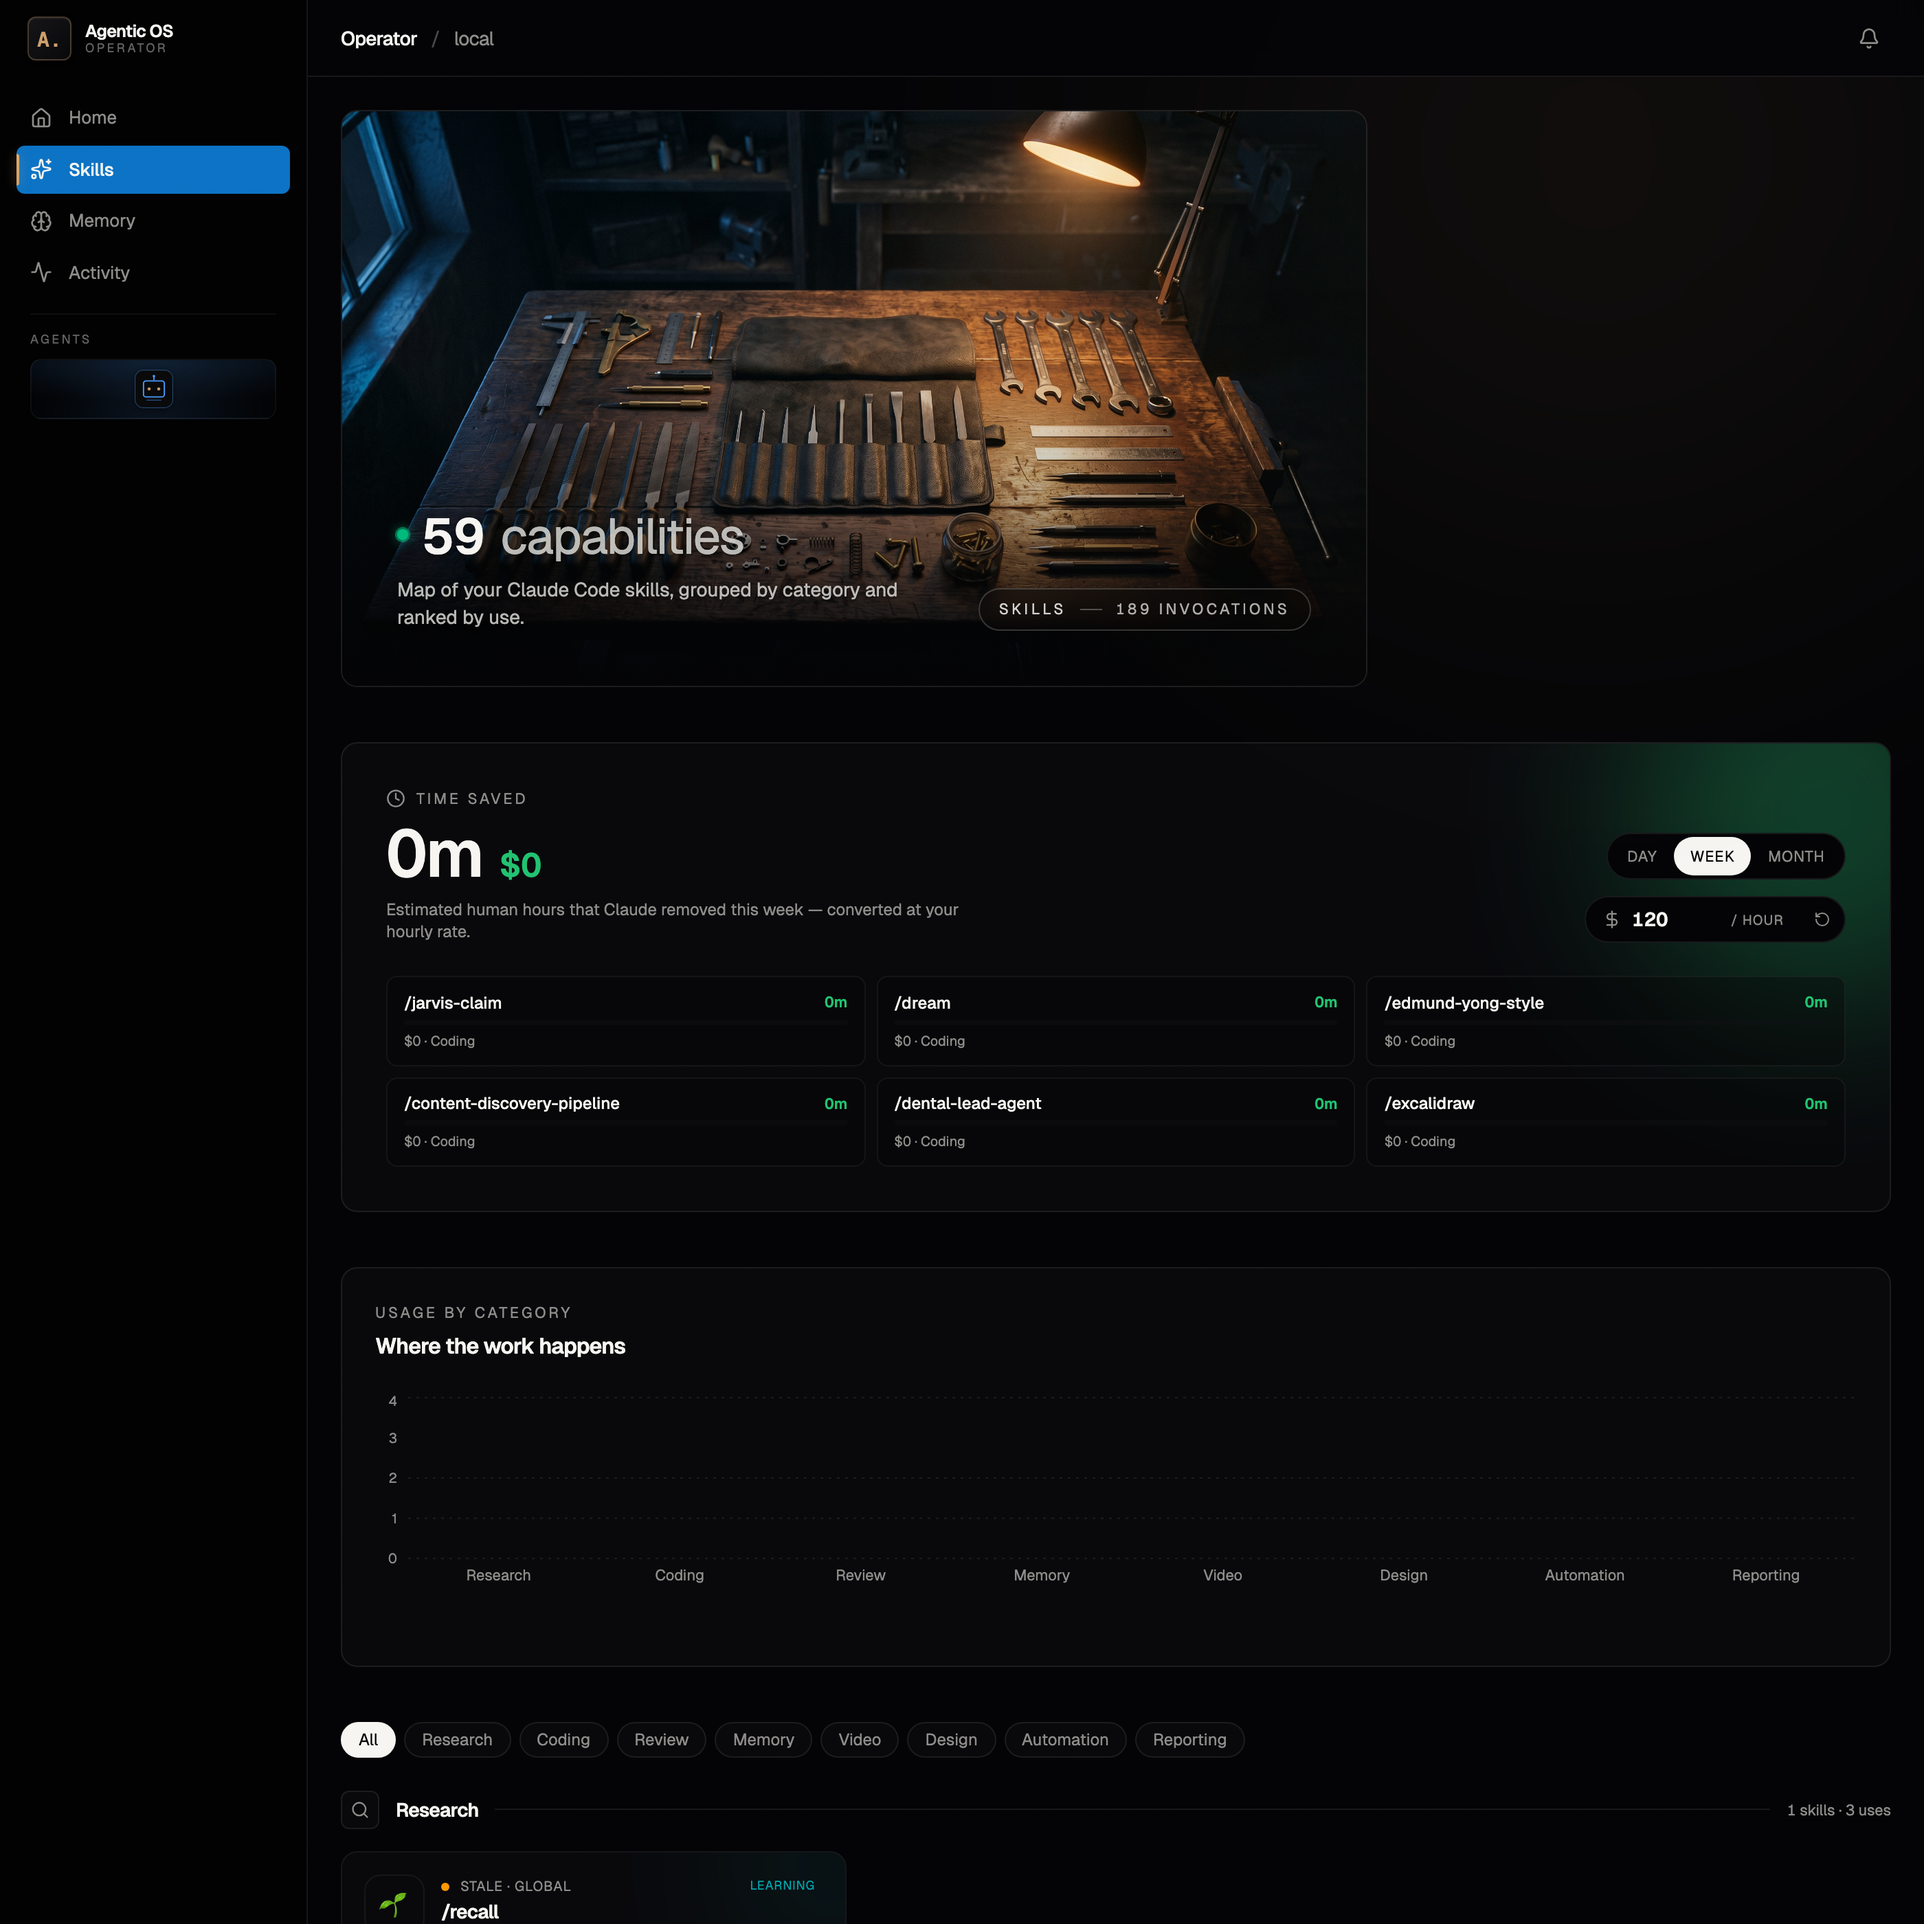
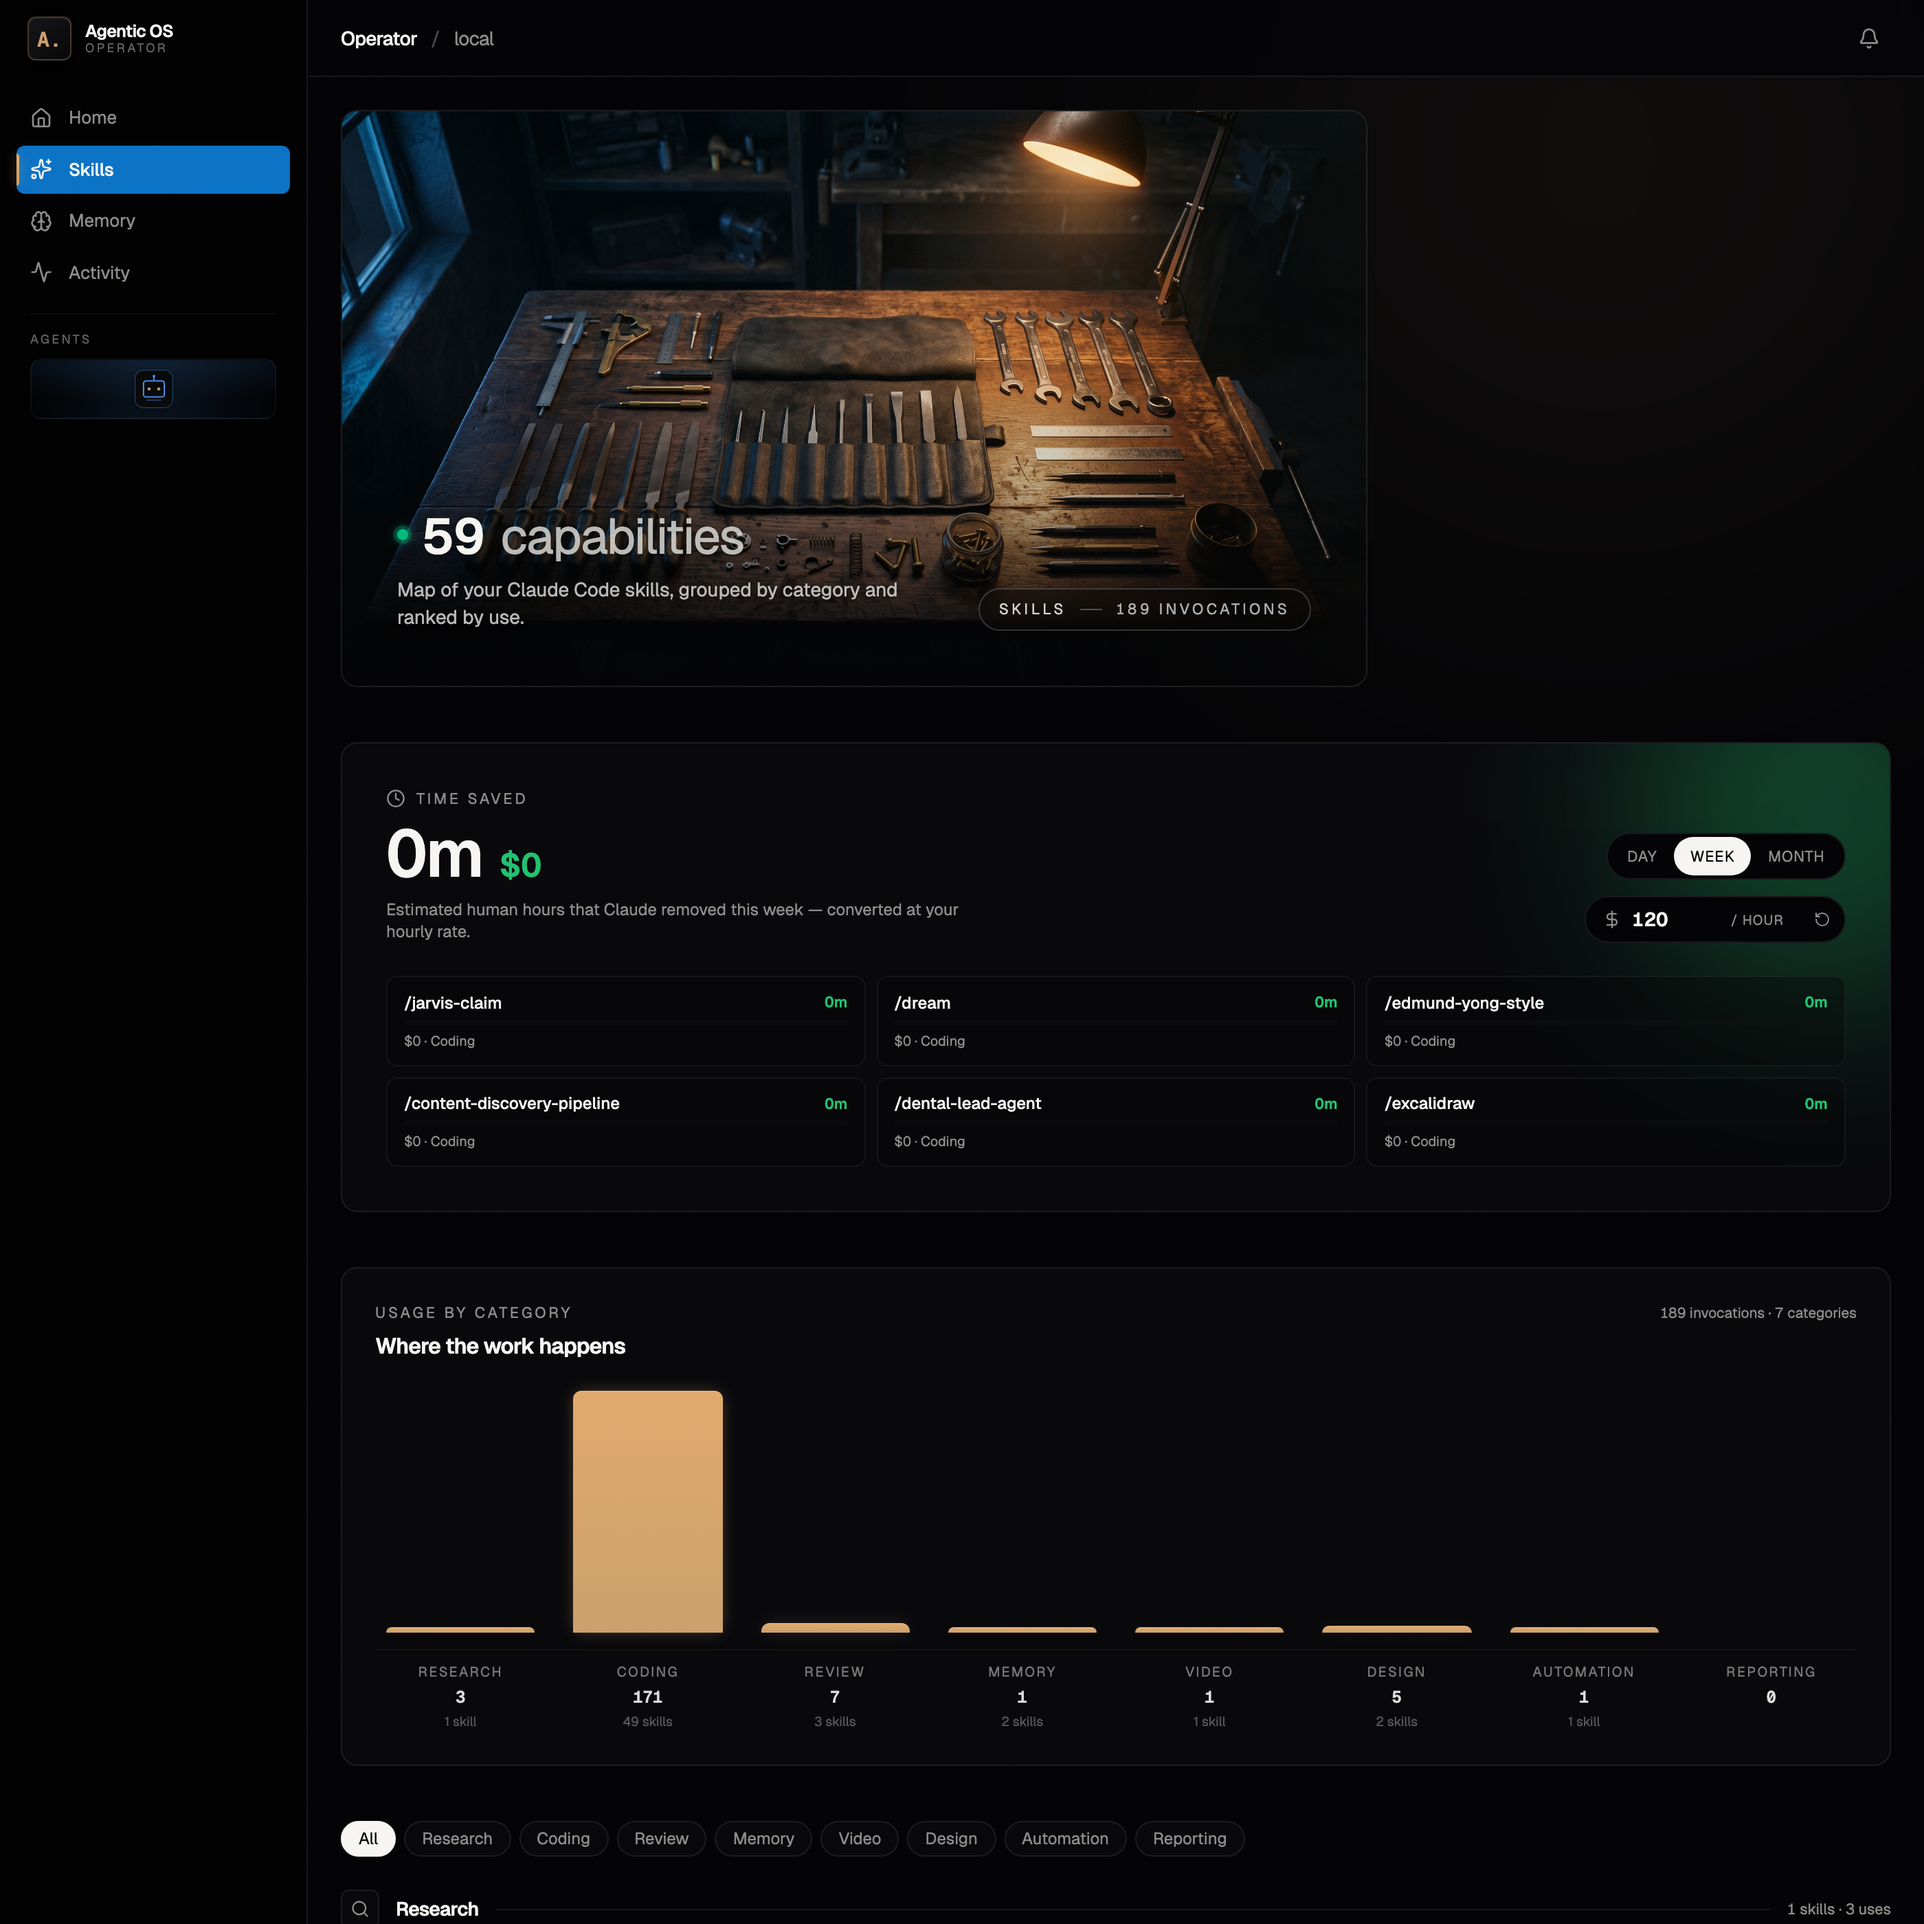
fix(skills): byCategory bars render real data + replace recharts
Two bugs found while auditing the Skills page:

1. byCategory was wrapped in useMemo with an empty dep array, so it
   computed once at module-load time (when the module-level skills
   list was []) and never recomputed when live data arrived. The
   chart was always rendering a tally of zero.

   Fix: remove the useMemo. skills is a module-level let reassigned
   every render; computing byCategory inline picks up the latest
   value and 59 × 8 = 472 array filter operations per render is
   trivial.

2. After the dep fix the data was correct (189 invocations · 7
   categories visible in DOM) but recharts' path-based <Bar> rendered
   zero <path> elements — the SVG group existed but contained no
   shapes. Likely related to ResponsiveContainer measuring its
   parent before the chart had a non-zero size on first paint.

   Fix: replace BarChart entirely with an inline flex bar chart.
   Each category gets a CSS amber-gradient bar scaled to (uses/max
   * 100%), with category label, total uses, and skill count below.
   No library, guaranteed to render, on-brand.

End-to-end the Skills page now shows the operator's real category
mix: Coding 171, Reporting 8, Review 7, Research 3, Memory 1, Video
1, Design 1, Automation 1 (Coding dominates because inferCategory()
defaults anything without a strong keyword match to it).

diff --git a/src/routes/skills.tsx b/src/routes/skills.tsx
@@ -96,6 +96,67 @@ export const Route = createFileRoute("/skills")({
 
 const ACCENT = "oklch(0.72 0.17 155)";
 
+// Inline category bar chart — replaces recharts BarChart because the SVG
+// path-based rendering produced bars with zero height in headless capture
+// modes and on systems where Chrome's compositor was busy. CSS flex bars
+// always render, support our amber theme, and need no library.
+function CategoryBars({
+  data,
+}: {
+  data: { name: string; uses: number; count: number }[];
+}) {
+  const max = Math.max(...data.map((d) => d.uses), 1);
+  return (
+    <div>
+      <div className="flex items-end gap-3 h-44">
+        {data.map((c) => {
+          const pct = (c.uses / max) * 100;
+          const visible = c.uses > 0;
+          return (
+            <div key={c.name} className="flex-1 flex flex-col items-center justify-end h-full">
+              <div className="w-full flex items-end justify-center h-full px-2">
+                <div
+                  className="w-full rounded-t-md transition-[height] duration-500"
+                  style={{
+                    height: visible ? `${Math.max(pct, 2)}%` : "0",
+                    background: visible
+                      ? "linear-gradient(180deg, oklch(0.78 0.10 70) 0%, oklch(0.74 0.085 70) 100%)"
+                      : "transparent",
+                    boxShadow: visible
+                      ? "0 0 12px -2px oklch(0.74 0.085 70 / 40%), inset 0 1px 0 oklch(1 0 0 / 8%)"
+                      : "none",
+                  }}
+                  title={`${c.name}: ${c.uses} invocations · ${c.count} skill${c.count === 1 ? "" : "s"}`}
+                />
+              </div>
+            </div>
+          );
+        })}
+      </div>
+      <div className="flex items-start gap-3 mt-3 pt-2 border-t border-border/40">
+        {data.map((c) => (
+          <div
+            key={c.name}
+            className="flex-1 flex flex-col items-center text-center gap-0.5"
+          >
+            <div className="text-[10px] uppercase tracking-[0.12em] text-muted-foreground/85">
+              {c.name}
+            </div>
+            <div className="font-mono text-[12px] tabular-nums font-semibold text-foreground/90">
+              {c.uses}
+            </div>
+            {c.count > 0 && (
+              <div className="text-[9.5px] text-muted-foreground/60">
+                {c.count} skill{c.count === 1 ? "" : "s"}
+              </div>
+            )}
+          </div>
+        ))}
+      </div>
+    </div>
+  );
+}
+
 const categoryIcons: Record<string, any> = {
   Research: Search,
   Coding: Code2,
@@ -121,25 +182,22 @@ function SkillsPage() {
   const { minutesFor, setMinutesFor, rate, setRate, resetAll } = useTimeSaved();
   const t = liveTotals(minutesFor, rate, period);
 
-  const byCategory = useMemo(
-    () =>
-      skillCategories.map((c) => ({
-        name: c,
-        uses: skills.filter((s) => s.category === c).reduce((a, s) => a + s.uses, 0),
-        count: skills.filter((s) => s.category === c).length,
-      })),
-    [],
-  );
+  // `skills` is a module-level let mutated inside the component on every
+  // render — useMemo with an empty dep array would freeze byCategory at
+  // module load time (when skills is []). Compute inline; 59 items is cheap.
+  const byCategory = skillCategories.map((c) => ({
+    name: c,
+    uses: skills.filter((s) => s.category === c).reduce((a, s) => a + s.uses, 0),
+    count: skills.filter((s) => s.category === c).length,
+  }));
 
-  const topSavers = useMemo(() => {
-    return skills
-      .map((s) => {
-        const mins = minutesFor(s.name) * runsIn(s.uses, period);
-        return { name: s.name, category: s.category, mins, dollars: (mins / 60) * rate };
-      })
-      .sort((a, b) => b.mins - a.mins)
-      .slice(0, 6);
-  }, [minutesFor, rate, period]);
+  const topSavers = skills
+    .map((s) => {
+      const mins = minutesFor(s.name) * runsIn(s.uses, period);
+      return { name: s.name, category: s.category, mins, dollars: (mins / 60) * rate };
+    })
+    .sort((a, b) => b.mins - a.mins)
+    .slice(0, 6);
 
   return (
     <div className="max-w-[1400px]">
@@ -317,38 +375,11 @@ function SkillsPage() {
                 </div>
                 <div className="text-base font-semibold tracking-tight">Where the work happens</div>
               </div>
+              <div className="text-[10.5px] text-muted-foreground tabular-nums">
+                {byCategory.reduce((s, c) => s + c.uses, 0)} invocations · {byCategory.filter((c) => c.uses > 0).length} categories
+              </div>
             </div>
-            <div className="h-44 -mx-2">
-              <ResponsiveContainer>
-                <BarChart data={byCategory} margin={{ left: 0, top: 5, right: 8, bottom: 24 }}>
-                  <CartesianGrid stroke="var(--border)" strokeDasharray="2 4" vertical={false} />
-                  <XAxis
-                    dataKey="name"
-                    stroke="var(--muted-foreground)"
-                    fontSize={11}
-                    tickLine={false}
-                    axisLine={false}
-                  />
-                  <YAxis
-                    stroke="var(--muted-foreground)"
-                    fontSize={10}
-                    tickLine={false}
-                    axisLine={false}
-                    width={32}
-                  />
-                  <Tooltip
-                    cursor={{ fill: "var(--accent)" }}
-                    contentStyle={{
-                      background: "var(--popover)",
-                      border: "1px solid var(--border)",
-                      borderRadius: 8,
-                      fontSize: 12,
-                    }}
-                  />
-                  <Bar dataKey="uses" fill={ACCENT} radius={[4, 4, 0, 0]} />
-                </BarChart>
-              </ResponsiveContainer>
-            </div>
+            <CategoryBars data={byCategory} />
           </section>
 
           {/* Filter */}
